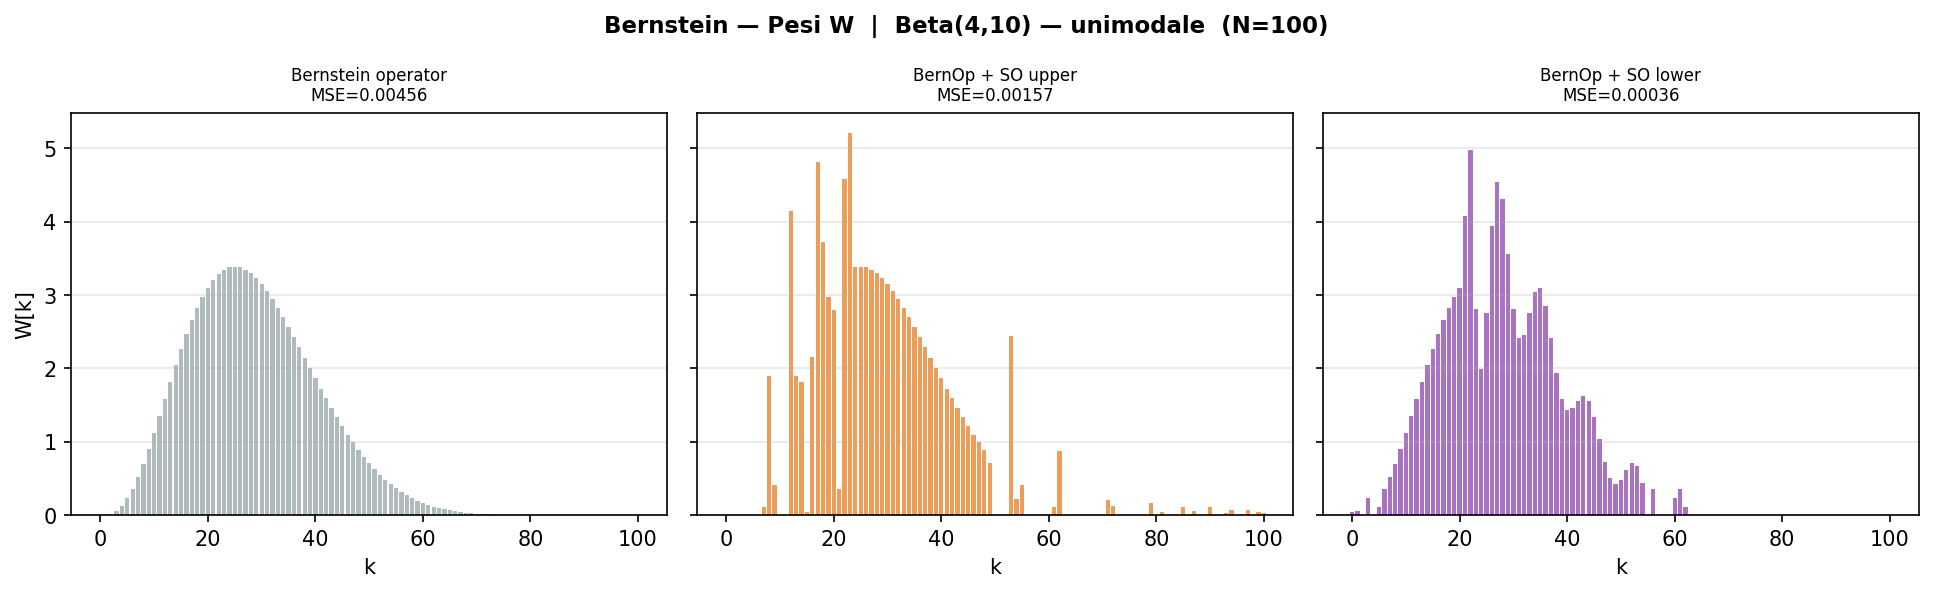
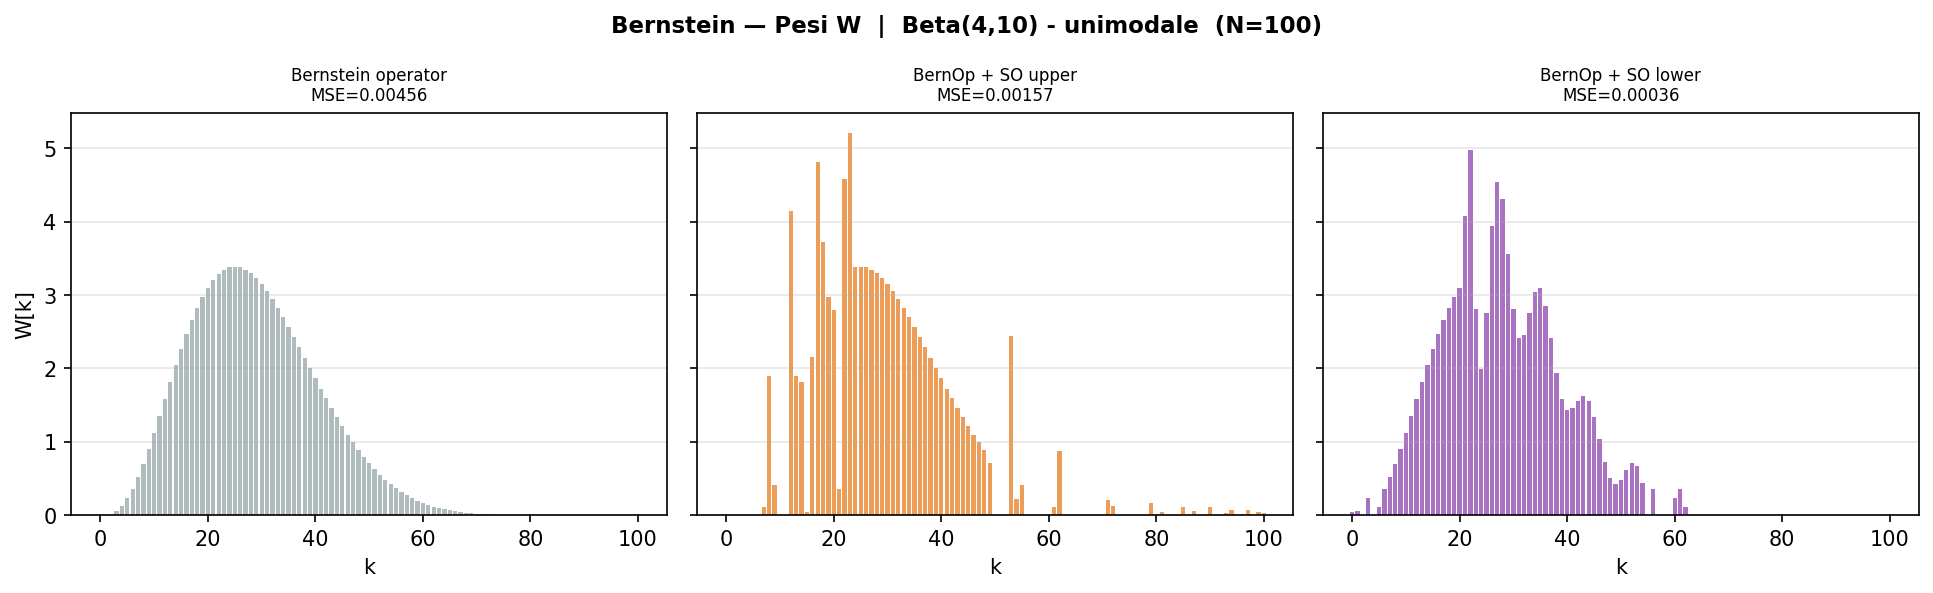
Small changes

Changed region(s): [[0.3104, 0.0304, 0.6829, 0.0607]]

diff --git a/bernstein/experiments.py b/bernstein/experiments.py
@@ -19,12 +19,12 @@ Logica dei vincoli SO
 
 Il vincolo SO è sempre definito in termini di Delta = W_new - W_ref:
 
-  upper:  cumsum(Delta)[h] <= 0  ∀h=0..N-1   → massa verso destra  → BP >=_st ref
+  upper:  cumsum(Delta)[h] <= 0  ∀h=0..N-1   → massa verso destra   → BP >=_st ref
   lower:  cumsum(Delta)[h] >= 0  ∀h=0..N-1   → massa verso sinistra → BP <=_st ref
 
 Per bernstein_op_{upper,lower}: W_ref = W_bernstein_op  (SO rispetto all'operatore)
-Per scipy_{upper,lower}:        W_ref = W_scipy          (SO rispetto all'ottimo)
-Per pytorch_upper:               W_ref = W_scipy          (idem, con penalità soft)
+Per scipy_{upper,lower}:        W_ref = W_scipy         (SO rispetto all'ottimo)
+Per pytorch_upper:              W_ref = W_scipy         (idem, con penalità soft)
 
 sum(Delta) = 0 è garantito dal vincolo di misura unitaria:
     sum(W_new) = N+1  e  sum(W_ref) = N+1  →  sum(Delta) = 0
@@ -70,7 +70,7 @@ def run_experiment(name: str, N: int, x: np.ndarray, f: np.ndarray,
     M = basis_matrix(N, x)
     dx = x[1] - x[0]
 
-    # Inizializzo i pesi
+    # Inizializza i pesi
     t0 = time.perf_counter()
     W_init  = bernstein_operator_init(N, x, f)
     t = (time.perf_counter() - t0) * 1e3
@@ -126,7 +126,7 @@ def run_experiment(name: str, N: int, x: np.ndarray, f: np.ndarray,
     _print_w_delta('bernstein_op_lower', W_bo_lo, D_bo_lo)
     
     # Ing-Cane
-    # Niente SO perché ing cane non può dare garanzie su questo
+    # Niente SO perché ing-cane non può dare garanzie su questo
     t0 = time.perf_counter()
     W_ic = solve_ing_cane(N, x, f)
     t = (time.perf_counter() - t0) * 1e3
@@ -135,7 +135,7 @@ def run_experiment(name: str, N: int, x: np.ndarray, f: np.ndarray,
     _print_w_delta('ing_cane', W_ic)
     
     # Scipy unconstrained
-    # Scipy senza SO dovrebbe sempre essere il migliore (MSE = 0 o giù di lì)
+    # Scipy senza SO dovrebbe sempre essere il migliore (MSE = 0)
     t0 = time.perf_counter()
     W_scipy, _ = solve_scipy(N, x, f, W_init=W_init.copy())
     t_scipy = (time.perf_counter() - t0) * 1e3
@@ -146,7 +146,7 @@ def run_experiment(name: str, N: int, x: np.ndarray, f: np.ndarray,
     
     # Scipy + SO upper
     # Variabile: Delta = W_new - W_scipy.
-    # Soglia SO: cumsum(W_new)[h] <= (N+1)*F_f(h/N)  - rispetto alla CDF di f.
+    # Soglia SO: cumsum(W_new)[h] <= (N+1)*F_f(h/N) - rispetto alla CDF di f.
     # Se W_scipy ≈ f, la soglia coincide con cumsum(W_scipy) e si forza
     # uno shift reale verso destra.
     t0 = time.perf_counter()

diff --git a/bern_bernSOupp_bernSOlow.py b/bern_bernSOupp_bernSOlow.py
@@ -296,7 +296,7 @@ def plot_bern_so(results: dict, save_path: str | None = None):
 
     fig, ax = plt.subplots(figsize=(9, 5))
     fig.suptitle(
-        f'Bernstein — Riepilogo SO  |  {name}  (N={N})\n'
+        f'Bernstein - Riepilogo SO  |  {name}  (N={N})\n'
         f'upper: {"✓" if so_up_sat else "✗"}   '
         f'lower: {"✓" if so_lo_sat else "✗"}',
         fontsize=11, fontweight='bold'
@@ -331,7 +331,7 @@ def plot_bern_so(results: dict, save_path: str | None = None):
 # ---------------------------------------------------
 f1 = stats.beta(4, 10).pdf(x)
 
-r1 = run_bernstein('Beta(4,10) — unimodale', N, x, f1)
+r1 = run_bernstein('Beta(4,10) - unimodale', N, x, f1)
 plot_bern_pdf(r1, save_path=f'{OUT}/exp1_bern_pdf.png')
 plot_bern_cdf(r1, save_path=f'{OUT}/exp1_bern_cdf.png')
 plot_bern_weights(r1, save_path=f'{OUT}/exp1_bern_weights.png')

diff --git a/bernstein/plotting.py b/bernstein/plotting.py
@@ -142,7 +142,7 @@ def plot_weights(results: dict, save_path: str | None = None):
     if len(keys) == 1:
         axes = [axes]
 
-    fig.suptitle(f'Pesi W — {results["name"]}  (N={N})',
+    fig.suptitle(f'Pesi W - {results["name"]}  (N={N})',
                  fontsize=11, fontweight='bold')
 
     for ax, key in zip(axes, keys):
@@ -264,7 +264,7 @@ def plot_so_single(results: dict, key: str, direction: str,
 
     fig, (ax_full, ax_zoom) = plt.subplots(1, 2, figsize=(11, 4.5))
     fig.suptitle(
-        f'SO {dir_str} — {st["label"]}\n'
+        f'SO {dir_str} - {st["label"]}\n'
         f'{name}  (N={N})   {sat_str}   '
         f'margine min = {np.abs(delta_cdf).min():.4f}',
         fontsize=10, fontweight='bold'

diff --git a/bernstein/basis.py b/bernstein/basis.py
@@ -31,10 +31,12 @@ def basis_matrix(N: int, x: np.ndarray) -> np.ndarray:
     return M
 
 
-# Al posto di fare la sommatoria esplicita per trovare
-# il valore del polinomio si fa il prodotto matriciale
-# fra la base di bernstein ed i pesi (meglio computazionalmente)
 def eval_bp(W: np.ndarray, M: np.ndarray) -> np.ndarray:
+    """ 
+    Al posto di fare la sommatoria esplicita per trovare
+    il valore del polinomio si fa il prodotto matriciale
+    fra la base di bernstein ed i pesi (meglio computazionalmente)
+    """
     return M @ W
 
 

diff --git a/bern_scipy_torch_noSO.py b/bern_scipy_torch_noSO.py
@@ -195,7 +195,7 @@ def plot_simple_weights(results: dict, save_path: str | None = None):
 
 f1 = stats.beta(4, 10).pdf(x)
 
-r1 = run_simple('Beta(4,10) — unimodale', N, x, f1, epochs_pt=3000)
+r1 = run_simple('Beta(4,10) - unimodale', N, x, f1, epochs_pt=3000)
 plot_simple_pdf(r1, save_path=f'{OUT}/exp1_simple_pdf.png')
 plot_simple_cdf(r1, save_path=f'{OUT}/exp1_simple_cdf.png')
 plot_simple_weights(r1, save_path=f'{OUT}/exp1_simple_weights.png')
